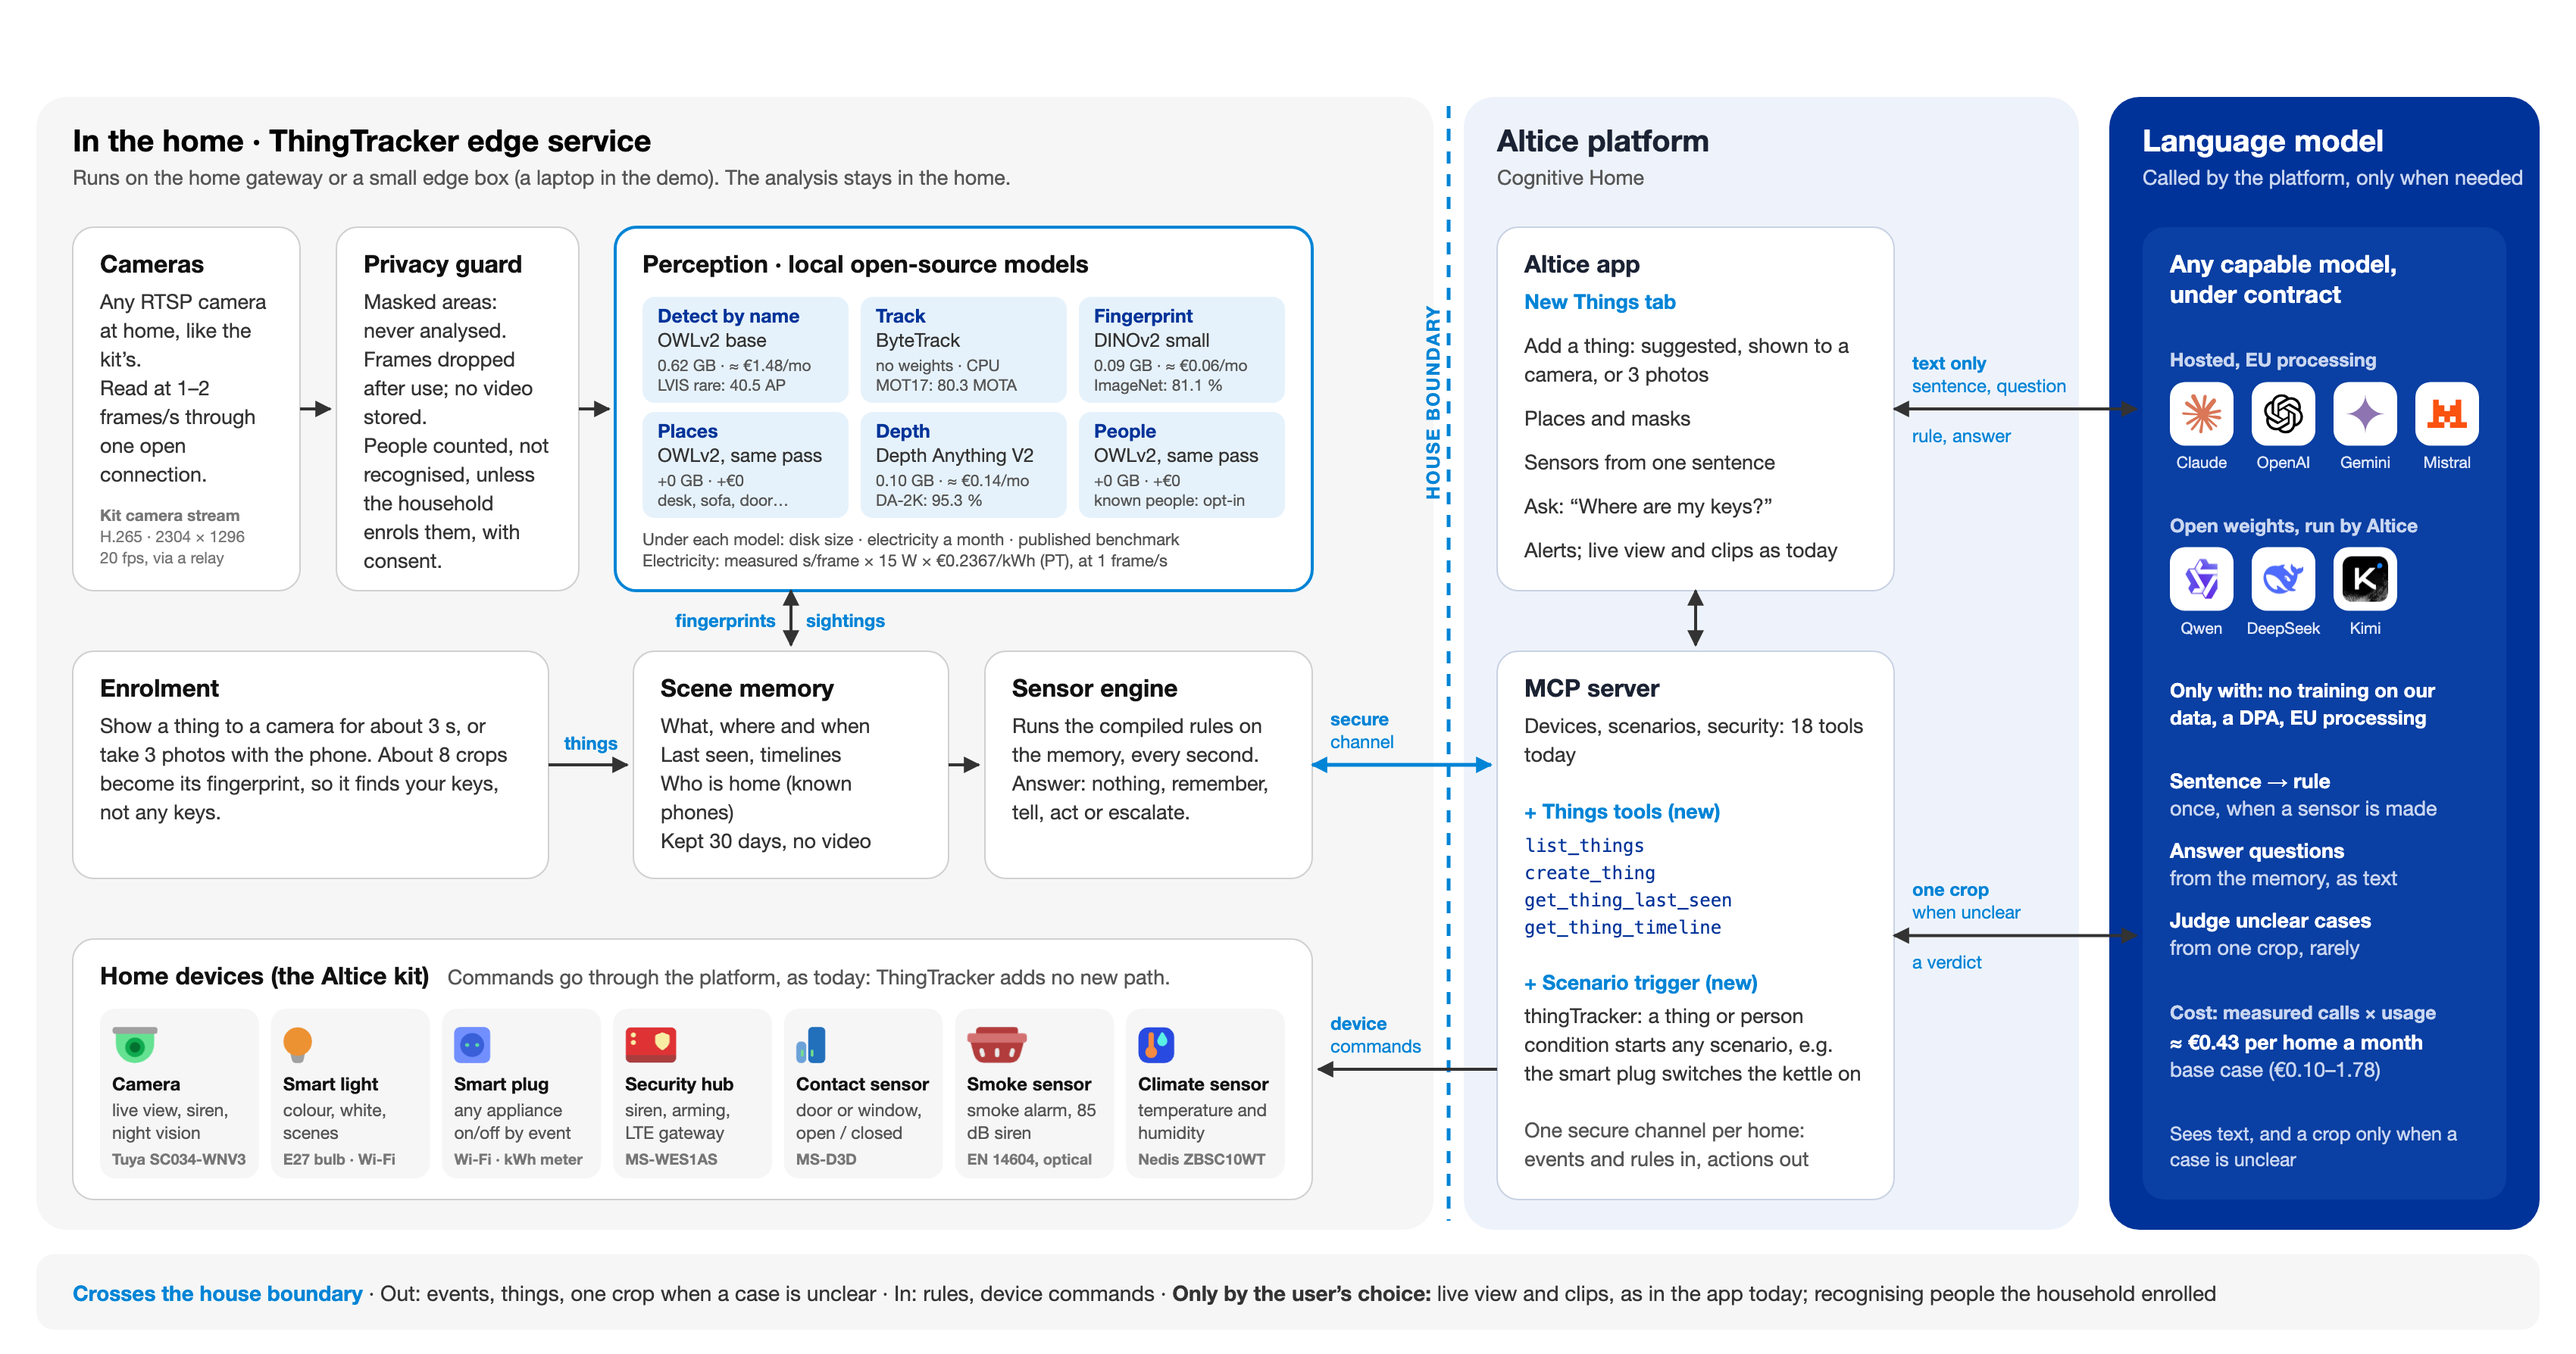
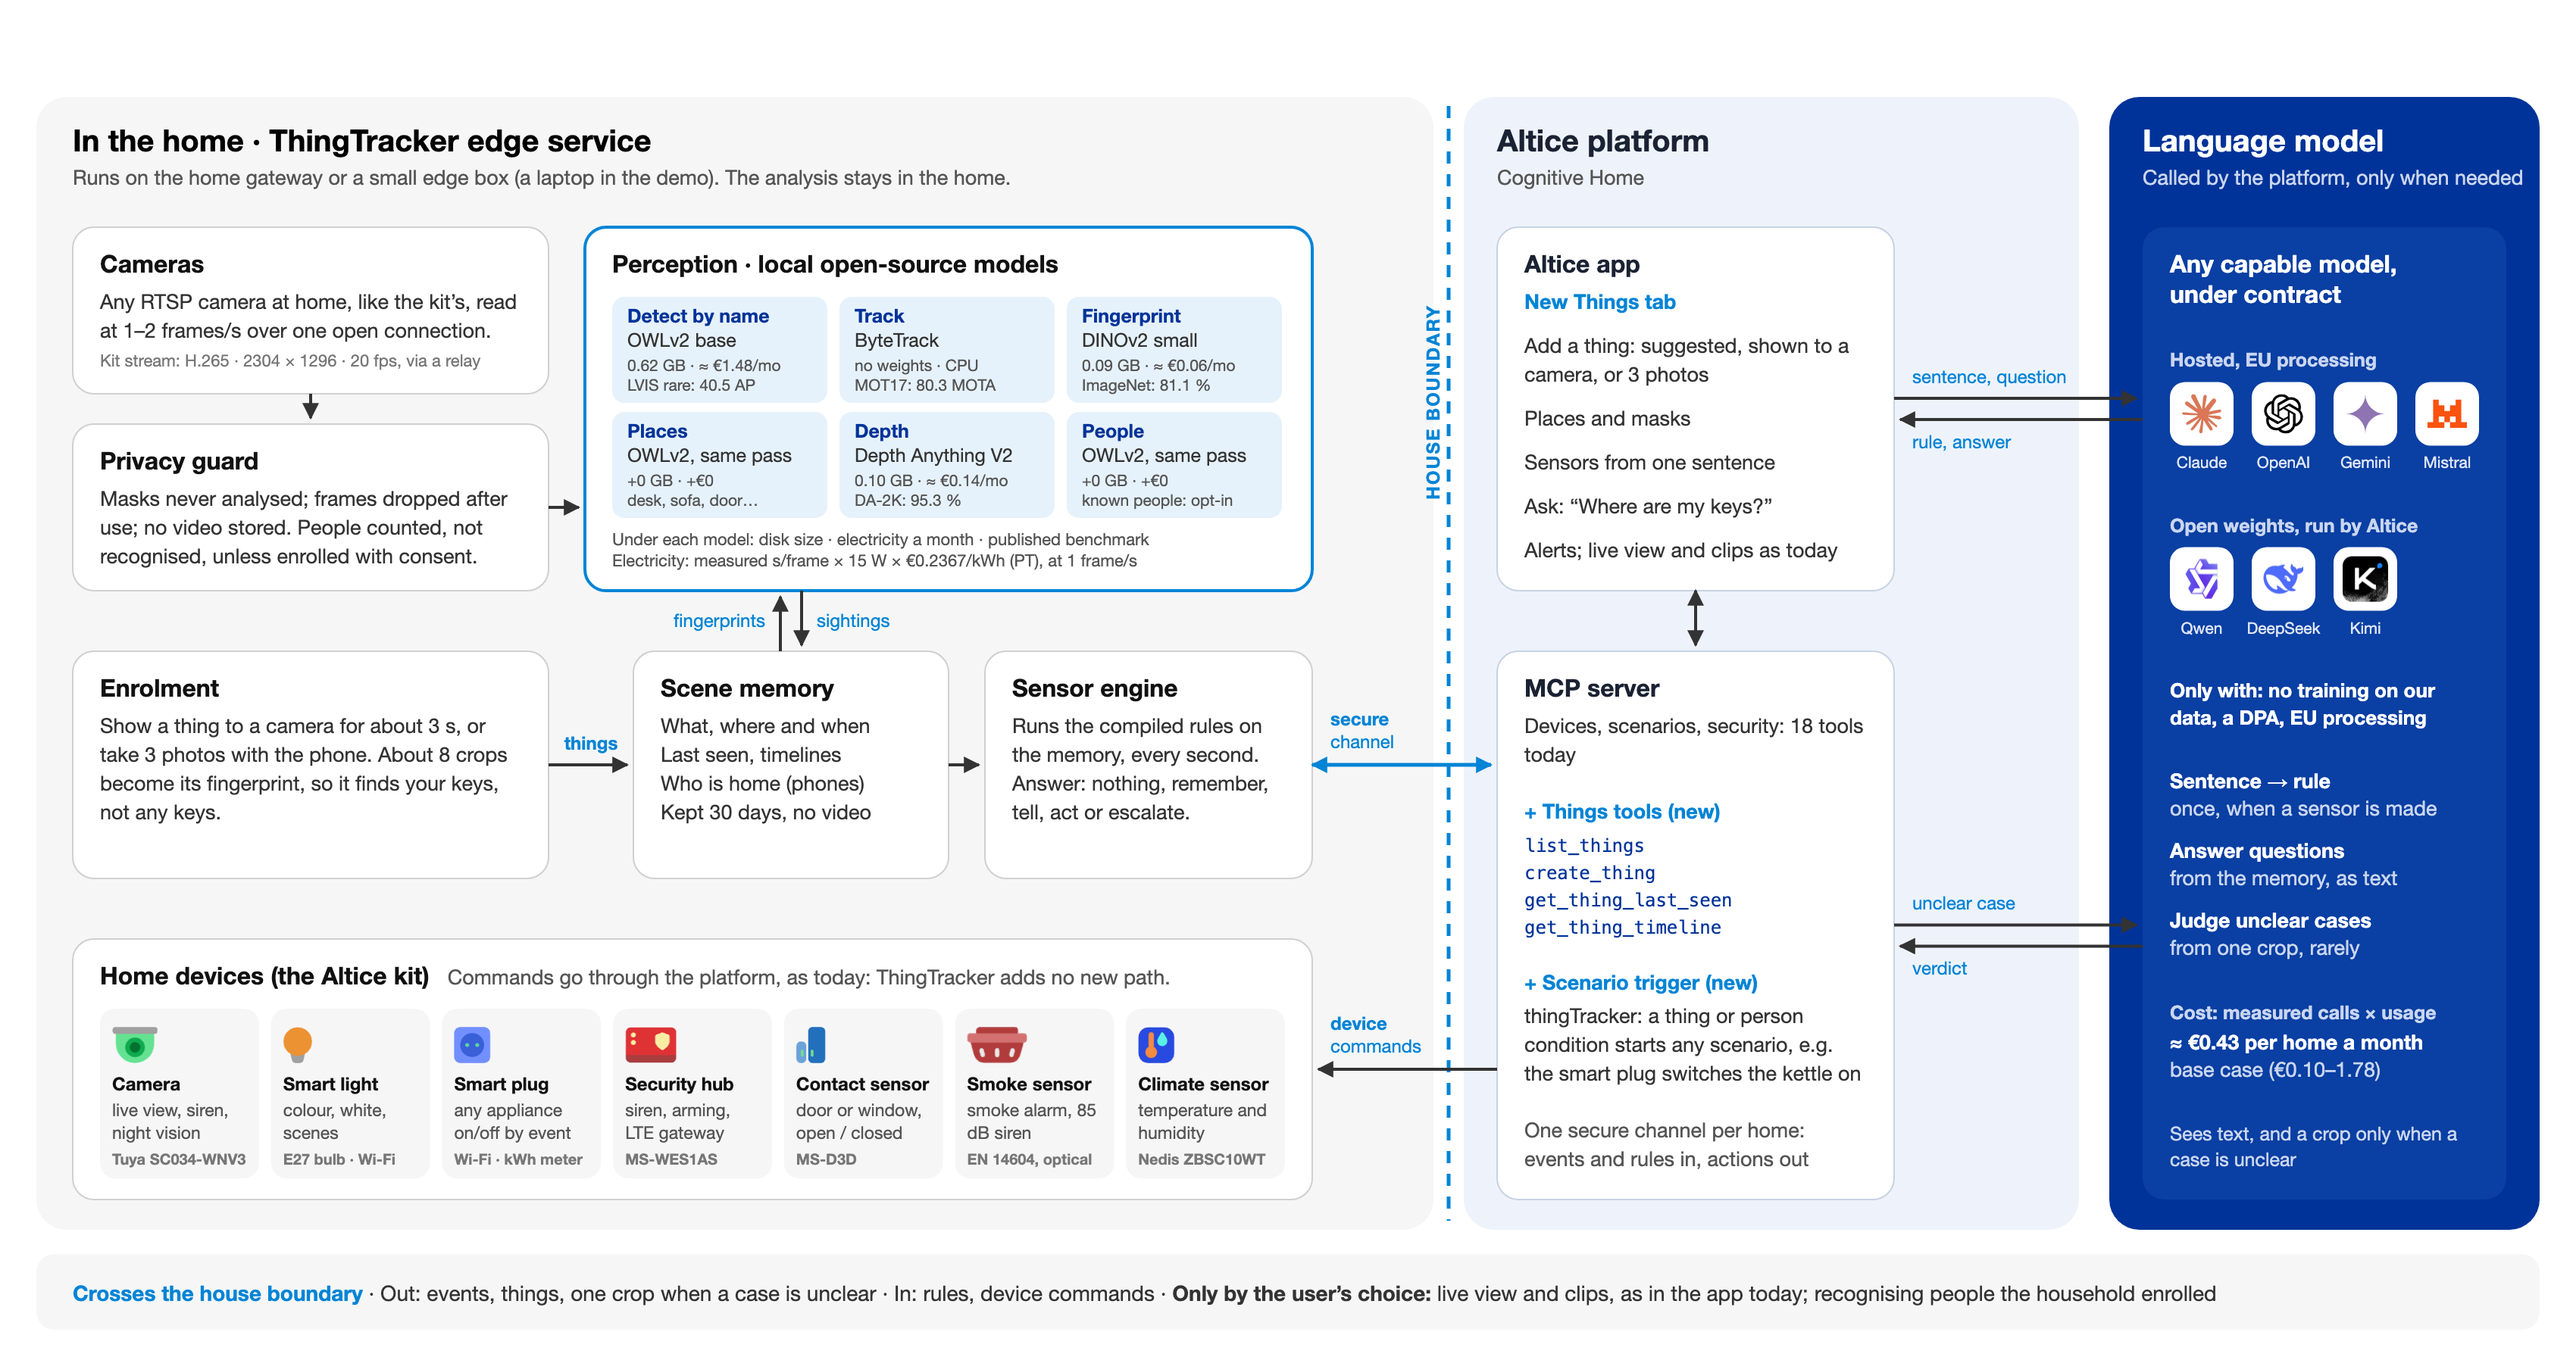
Diagram: one arrow per direction; wider Cameras and Privacy cards
Two-way arrows with a label on each side were ambiguous, so every flow
that goes both ways is now two arrows, each with its own label (perception
and memory, platform and language model). Cameras and Privacy guard are
stacked in one column as wide as Enrolment, so their text reads in long,
even lines. Removed the 'text only' label: what the model may receive is
still the team's decision.

Claude-Session: https://claude.ai/code/session_01N2drm6ybAWQuuTyg4LiDvn

diff --git a/docs/architecture/build_diagram.py b/docs/architecture/build_diagram.py
@@ -34,6 +34,8 @@ PAD = 18                                               # inner padding of every 
 APP, MCP = (R1[0], R1[1]), (R2[0], R3[1])              # platform boxes sit on the same grid
 PX0, PX1 = 988, 1250                                   # platform box x-range
 LX0, LX1 = 1414, 1654                                  # language model panel x-range
+LLM_OUT_1, LLM_BACK_1 = "sentence, question", "rule, answer"
+LLM_OUT_2, LLM_BACK_2 = "unclear case", "verdict"
 INK, MUTED, BLUE, DEEP, LINE, FAINT = "#111", "#555", "#0084D6", "#003399", "#D0D0D0", "#777"
 
 # energy per model: time measured on our laptop GPU x the edge box's power x the Portuguese price
@@ -162,14 +164,15 @@ out.append(f'<line x1="{BOUNDARY_X}" y1="{BAND_TOP + 6}" x2="{BOUNDARY_X}" y2="{
 out.append(f'<text font-size="12" font-weight="700" fill="{BLUE}" letter-spacing="1" transform="translate({BOUNDARY_X - 6} {R1[1] - 60}) rotate(-90)">HOUSE BOUNDARY</text>')
 
 # ---------------------------------------------------------------- home, row 1
-CAM, GUARD, PERC = (48, 198), (222, 382), (406, 866)
-box(*CAM, R1, "Cameras", ["Any RTSP camera at home, like the kit’s.", "Read at 1–2 frames/s through one open connection."])
-# the measured kit stream, anchored to the bottom padding of the box
-for i, s in enumerate(["Kit camera stream", "H.265 · 2304 × 1296", "20 fps, via a relay"]):
-    text(CAM[0] + PAD, R1[1] - PAD - 28 + i * 14, s, 10.5, 700 if i == 0 else 400, FAINT)
-box(*GUARD, R1, "Privacy guard", ["Masked areas: never analysed.", "Frames dropped after use; no video stored.",
-                                  "People counted, not recognised, unless the household enrols them, with consent."])
-
+# Cameras above the privacy guard, in one column as wide as Enrolment below, so lines stay long and even
+COL = (48, 362)
+CAM_ROW = (R1[0], R1[0] + 110)
+GUARD_ROW = (R1[1] - 110, R1[1])
+PERC = (386, 866)
+box(*COL, CAM_ROW, "Cameras", ["Any RTSP camera at home, like the kit’s, read at 1–2 frames/s over one open connection."])
+text(COL[0] + PAD, CAM_ROW[1] - PAD, "Kit stream: H.265 · 2304 × 1296 · 20 fps, via a relay", 11, 400, FAINT)
+box(*COL, GUARD_ROW, "Privacy guard", ["Masks never analysed; frames dropped after use; no video stored. "
+                                       "People counted, not recognised, unless enrolled with consent."])
 rect(PERC[0], R1[0], PERC[1] - PERC[0], R1[1] - R1[0], stroke=BLUE, sw=2)
 text(PERC[0] + PAD, R1[0] + 30, "Perception · local open-source models", 16, 700, INK)
 chips = [
@@ -180,7 +183,7 @@ chips = [
     ("Depth", "Depth Anything V2", f"0.10 GB · ≈ €{E_DEPTH:.2f}/mo", "DA-2K: 95.3 %"),
     ("People", "OWLv2, same pass", "+0 GB · +€0", "known people: opt-in"),
 ]
-CW, CH, CG = 136, 70, 8
+CW, CH, CG = (PERC[1] - PERC[0] - 2 * PAD - 16) // 3, 70, 8
 for i, (t, model, stats, bench) in enumerate(chips):
     cx = PERC[0] + PAD + (i % 3) * (CW + CG)
     cy = R1[0] + 46 + (i // 3) * (CH + 6)
@@ -198,7 +201,7 @@ text(PERC[0] + PAD, foot_y + 14, f"Electricity: measured s/frame × {WATTS} W ×
 ENROL, MEM, ENG = (48, 362), (418, 626), (650, 866)
 box(*ENROL, R2, "Enrolment", ["Show a thing to a camera for about 3 s, or take 3 photos with the phone. About 8 crops "
                               "become its fingerprint, so it finds your keys, not any keys."])
-box(*MEM, R2, "Scene memory", ["What, where and when", "Last seen, timelines", "Who is home (known phones)", "Kept 30 days, no video"])
+box(*MEM, R2, "Scene memory", ["What, where and when", "Last seen, timelines", "Who is home (phones)", "Kept 30 days, no video"])
 box(*ENG, R2, "Sensor engine", ["Runs the compiled rules on the memory, every second.", "Answer: nothing, remember, tell, act or escalate."])
 
 # ---------------------------------------------------------------- home, row 3: the Altice kit
@@ -318,13 +321,25 @@ JOBS_Y = ys[4]
 
 # ---------------------------------------------------------------- lines (all straight)
 mid1, mid2, mid3 = (R1[0] + R1[1]) // 2, (R2[0] + R2[1]) // 2, (R3[0] + R3[1]) // 2
-arrow(f"M{CAM[1]} {mid1} H{GUARD[0] - 4}")
-arrow(f"M{GUARD[1]} {mid1} H{PERC[0] - 4}")
+arrow(f"M{(COL[0] + COL[1]) // 2} {CAM_ROW[1]} V{GUARD_ROW[0] - 4}")
+arrow(f"M{COL[1]} {(GUARD_ROW[0] + GUARD_ROW[1]) // 2} H{PERC[0] - 4}")
+# one arrow per direction, each with its own label, so the direction of every flow is unambiguous
+def pair_h(x_left, x_right, y, right_label, left_label):
+    arrow(f"M{x_left} {y - 7} H{x_right - 4}")
+    label(x_left + 12, y - 17, [right_label], bold_first=False)
+    arrow(f"M{x_right} {y + 7} H{x_left + 4}")
+    label(x_left + 12, y + 26, [left_label], bold_first=False)
+
+
+def pair_v(x, y_top, y_bottom, up_label, down_label):
+    arrow(f"M{x - 7} {y_bottom} V{y_top + 4}")
+    label(x - 17, (y_top + y_bottom) // 2 + 4, [up_label], "end", bold_first=False)
+    arrow(f"M{x + 7} {y_top} V{y_bottom - 4}")
+    label(x + 17, (y_top + y_bottom) // 2 + 4, [down_label], bold_first=False)
+
+
 # perception reads the fingerprints from the memory and writes sightings to it
-vx = MEM[0] + 104
-arrow(f"M{vx} {R1[1]} V{R2[0] - 4}", both=True)
-label(vx - 10, R1[1] + 24, ["fingerprints"], "end")
-label(vx + 10, R1[1] + 24, ["sightings"])
+pair_v(MEM[0] + 104, R1[1], R2[0], "fingerprints", "sightings")
 arrow(f"M{ENROL[1]} {mid2} H{MEM[0] - 4}")
 label((ENROL[1] + MEM[0]) // 2, mid2 - 10, ["things"], "middle")
 arrow(f"M{MEM[1]} {mid2} H{ENG[0] - 4}")
@@ -335,13 +350,8 @@ arrow(f"M{PX0} {mid3} H{DEV[1] + 4}")
 label(878, mid3 - 26, ["device", "commands"])
 arrow(f"M{(PX0 + PX1) // 2} {APP[1]} V{MCP[0] - 4}", both=True)
 # platform <-> language model, labelled inside the platform band's corridor
-arrow(f"M{PX1} {mid1} H{LX0 - 4}", both=True)
-label(PX1 + 12, mid1 - 26, ["text only", "sentence, question"])
-label(PX1 + 12, mid1 + 22, ["rule, answer"], bold_first=False)
-y_judge = JOBS_Y + 2 * 46 + 5
-arrow(f"M{PX1} {y_judge} H{LX0 - 4}", both=True)
-label(PX1 + 12, y_judge - 26, ["one crop", "when unclear"])
-label(PX1 + 12, y_judge + 22, ["a verdict"], bold_first=False)
+pair_h(PX1, LX0, mid1, LLM_OUT_1, LLM_BACK_1)
+pair_h(PX1, LX0, JOBS_Y + 2 * 46 + 5, LLM_OUT_2, LLM_BACK_2)
 
 # ---------------------------------------------------------------- legend
 rect(24, LEGEND_Y, W - 48, 50, fill="#F6F6F6", stroke=None, rx=12)
